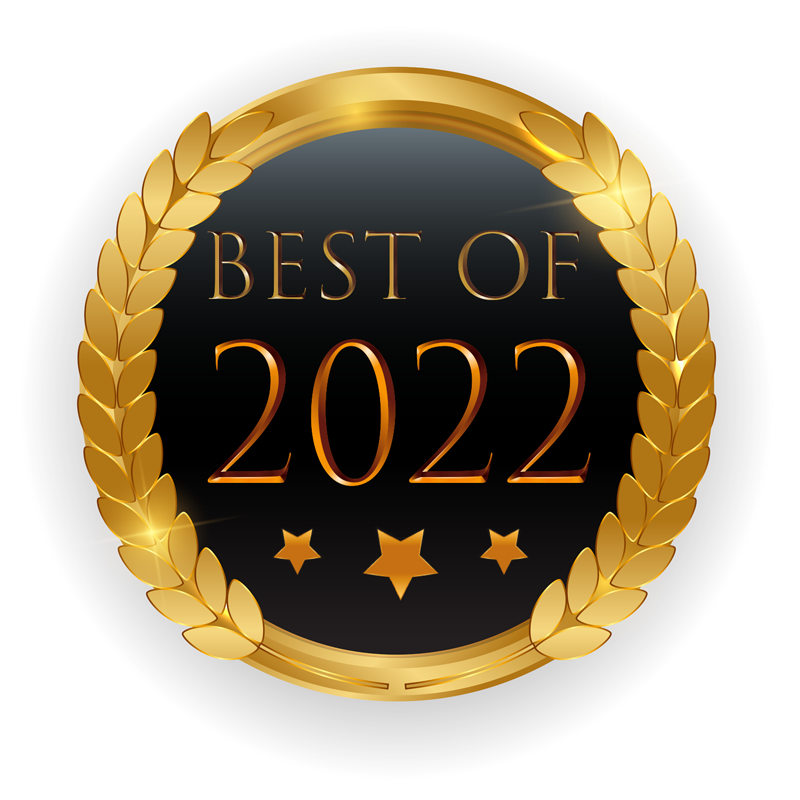
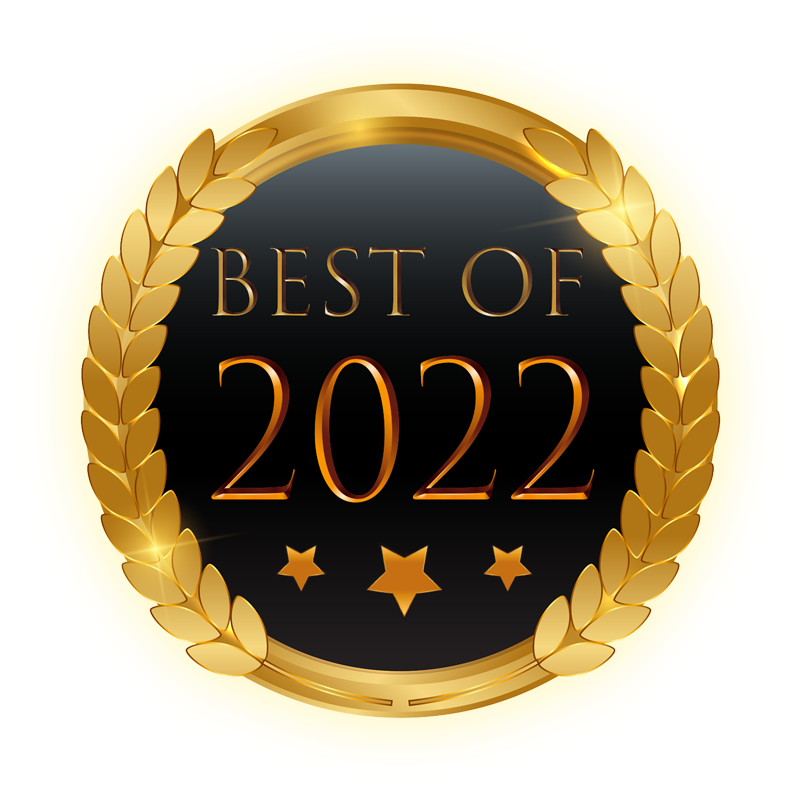
.

Changed region(s): [[0.0625, 0.0625, 0.9375, 0.9375], [0.4375, 0.6562, 0.5625, 0.7812], [0.3438, 0.6562, 0.4062, 0.75]]

diff --git a/data/local/dataPortfoliosPage.ts b/data/local/dataPortfoliosPage.ts
@@ -4,7 +4,6 @@ import { getDataProject2Scootify } from "./portfolio/getDataProject2Scootify";
 import { getDataProject3Gallery } from "./portfolio/getDataProject3Gallery";
 import { getDataRichContentHandbook } from "./portfolio/getDataRichContentHandbook";
 import { getDataScootifyObject } from "./portfolio/getDataScootifyObject";
-import { getDataUmbrella } from "./portfolio/getDataUmbrella";
 
 export function getPortfolio(linkId: string): Portfolio {
   return getAllPortfolios().filter((value) => value.linkId === linkId)[0];
@@ -12,16 +11,6 @@ export function getPortfolio(linkId: string): Portfolio {
 
 export function getAllPortfolios(): Portfolio[] {
   return [
-    // {
-    //   linkId: "Umbrella",
-    //    name: "Umbrella",
-    // backgroundColor: "#90d3d3",
-    //headerItemsColor:""
-    // isBig: true,
-    //   image: "/images/portfolio/umbrella/6.24.png",
-    //  awardImage: "/images/portfolio/umbrella/GDPJ_logo.png",
-    //   pageRichContent: getDataUmbrella(),
-    // },
     {
       linkId: "x-phone",
       name: "X|Phone",
@@ -33,7 +22,8 @@ export function getAllPortfolios(): Portfolio[] {
       image: "/images/portfolio/xphone/PortfolioItemTemplate1.jpg",
       pageRichContent: getDataProject1XPhone(),
       awardImage: "/images/portfolio/xphone/xphone-award.png",
-      awardAspectRatio: "244/376",
+      awardIsTransparent: true,
+      // awardAspectRatio: "244/376",
     },
     {
       linkId: "scootify",
@@ -44,7 +34,7 @@ export function getAllPortfolios(): Portfolio[] {
       image: "/images/portfolio/scootify/PortfolioItemTemplate2.jpg",
       pageRichContent: getDataProject2Scootify(),
       awardImage: "/images/portfolio/scootify/scootify-award.png",
-      awardAspectRatio: "520/300",
+      // awardAspectRatio: "520/300",
     },
     {
       linkId: "gallery",
@@ -74,42 +64,5 @@ export function getAllPortfolios(): Portfolio[] {
       image: "/images/portfolio/PortfolioItemScootifyObject.jpg",
       pageRichContent: getDataScootifyObject(),
     },
-    // {
-    //   linkId: "one-more",
-    //   name: "One More Faucet",
-    //   color: "#0066ff",
-    //   backgroundColor: "#011736",
-    //   isBackgroundDark: false,
-    //   image: "/images/portfolio/ab.png",
-    //   // image:
-    //   //   "https://th.bing.com/th/id/R.58cc46069f9c1bfec000c83e79721d31?rik=V6%2bwTqIO36Y40g&riu=http%3a%2f%2fwallup.net%2fwp-content%2fuploads%2f2016%2f05%2f24%2f374644-path-landscape-trees.jpg&ehk=4r8HqHCVUOTPA4f19szEL4vOhfNMFE4FPAQUSSsOg%2bA%3d&risl=&pid=ImgRaw&r=0",
-    //   award: "/images/portfolio/a_design_award.gif",
-    //   pageContent: getDataProject1XPhone(),
-    // },
-    // {
-    //   linkId: "umbrella-ca",
-    //   name: "ab",
-    //   color: "#ff00ff",
-    //   backgroundColor: "#3a053a",
-    //   isBackgroundDark: false,
-    //   image: "/images/portfolio/umbrella_2.png",
-    //   pageContent: getDataProject2Scootify(),
-    // },
-    // {
-    //   linkId: "umbrella",
-    //   name: "umbrella",
-    //   color: "#ff0000",
-    //   backgroundColor: "#3f0101",
-    //   isBackgroundDark: true,
-    //   image: "/images/portfolio/umbrella.png",
-    //   award: "/images/portfolio/GDPJ_logo.png",
-    //   pageContent: getDataProject3(),
-    // },
-    // {
-    //   name: "Desk Light",
-    //   color: "#00ff7c",
-    //   backgroundColor: "#00381c",
-    //   image: "desk_light.png",
-    // },
   ];
 }

diff --git a/data/local/portfolio/getDataRichContentHandbook.ts b/data/local/portfolio/getDataRichContentHandbook.ts
@@ -42,7 +42,6 @@ export function getDataRichContentHandbook(): RichChunkModel[] {
     return {
       smallImage: {
         path: `/images/portfolio/handbook/fireball_${index}.gif`,
-        // path: "https://th.bing.com/th/id/OIP.XInPSfSw_KKOcuwTSDbW1AHaF7?pid=ImgDet&rs=1",
         aspectRatio: "474/379",
         animation: {
           animateOnScroll: true,
@@ -50,7 +49,6 @@ export function getDataRichContentHandbook(): RichChunkModel[] {
           translateDistance: 30,
         },
       },
-      // freeSpace: "20px",
     } as RichChunkModel;
   });
 
@@ -86,8 +84,8 @@ export function getDataRichContentHandbook(): RichChunkModel[] {
               translateDistance: 6,
             },
             text: `
-This is a full blown test in demonstration of Rich Chunks abilities, alongside explanation. 
-You can find the data file of this and all the other pages
+This is a full blown test in demonstration of Rich Chunks abilities, alongside 
+explanations. You can find the data file of this and all the other portfolio pages
 in ${getInlineCode("/data/local/portfolio/", "green")}.
 `,
           },
@@ -307,7 +305,8 @@ and ${getInlineCode("minHeight", "#9d0006")}:
 \` \`  
 
 This image will always fill the entire width of the screen, 
-and expand or shrink depending on the size that is given min height, or how much space it's content need
+and expand or shrink depending on the size that is given min height, 
+or how much space it's content need
 
 \` \`  
 \` \`  
@@ -439,7 +438,8 @@ and fast typing.
 <i class="fa-solid fa-fire"></i>  To use fonts in you text, go 
 to [fontawesome.com/icons](https://fontawesome.com/icons)
 and once you find the icon you want, copy the **HTML** code 
-then paste it in your text, like in the example above. If some fonts don't work for you, it's because you need to be on a higher tier plan.
+then paste it in your text, like in the example above. If some 
+fonts don't work for you, it's because you need to be on a higher tier plan.
 
 To colorize your text links, you can create an \`a\` tag with a \`span\`
 inside ${getInlineCode(

diff --git a/data/local/portfolio/getDataProject3Gallery.ts b/data/local/portfolio/getDataProject3Gallery.ts
@@ -2,14 +2,14 @@ import { RichChunkModel } from "../../models/rich-chunk/RichChunkModel";
 
 export function getDataProject3Gallery(): RichChunkModel[] {
   const refs = [
-    "Katerina Kerdi", //
-    "Giuseppe Mondi", //
-    "Artiom Vallat", //
+    "Katerina Kerdi",
+    "Giuseppe Mondi",
+    "Artiom Vallat",
     "Allyson Beaucourt",
-    "Roma Ryabchenko", //
+    "Roma Ryabchenko",
     "Andre Furtado",
     "Simon Wilkes",
-    "Benjamin Davies", //
+    "Benjamin Davies",
     "Paul Summers",
     "Hojjat Aghaei",
     "Andre Furtado",

diff --git a/data/local/dataAboutMePage.ts b/data/local/dataAboutMePage.ts
@@ -3,10 +3,7 @@ import { AboutMeData } from "../models/local-data/aboutMeData";
 
 export function getAboutMeData(): AboutMeData {
   return {
-    image:
-      // "https://avatarairlines.com/wp-content/uploads/2020/05/Female-Placeholder.png",
-      "/images/my_image.jpg",
-    // "https://j.plenio.de/images/igallery/resized/701-800/jplenio_IMG_6405_3-748-4000-4000-100.jpg",
+    image: "/images/my_image.jpg",
     name: "Jane Smith",
     textTop: `
 Hi, and welcome to my website.

diff --git a/data/local/portfolio/getDataProject2Scootify.ts b/data/local/portfolio/getDataProject2Scootify.ts
@@ -55,7 +55,8 @@ Scootify is covered in Carbon-Ceramic and runs on Quantized-hydroxium
             text: `
 ## Structure:
 
-Protected by **Carbon-Ceramic**, Scootify is able to withstand 10,000k N/m<sup>3</sup> on direct impact, which makes it virtually indestructable.
+Protected by **Carbon-Ceramic**, Scootify is able to withstand 10,000k N/m<sup>3</sup> on 
+direct impact, which makes it virtually indestructable.
 
 ## Fuel:
 

diff --git a/components/PagePortfolio/PortfolioItem.tsx b/components/PagePortfolio/PortfolioItem.tsx
@@ -123,7 +123,9 @@ export default function PortfolioItem(p: Props) {
   ////
   ///////////////////////////////////////////////////////////////////////////////////
 
-  const awardBoxShadow = p.portfolio.isBackgroundDark
+  const awardBoxShadow = p.portfolio.awardIsTransparent
+    ? ""
+    : p.portfolio.isBackgroundDark
     ? makeAwardSmall
       ? ".5px 1px 5px 1px #ffffff66"
       : `4px 12px 85px 16px #ffffff44`

diff --git a/data/models/local-data/portfolio.ts b/data/models/local-data/portfolio.ts
@@ -6,7 +6,8 @@ export interface Portfolio {
   isBig?: boolean;
   image: string;
   awardImage?: string;
-  awardAspectRatio?: string;
+  awardIsTransparent?: boolean;
+  awardAspectRatio?: string; // not working yet
   isBackgroundDark?: boolean;
   pageRichContent: RichChunkModel[];
   headerItemsColor?: string;

diff --git a/ReadMe.md b/ReadMe.md
@@ -116,7 +116,8 @@ interface Item {
 
 ## Contact Me
 
-When viewing the website on a large screen, Contact Me will have it's own tab, and will be displayed in it. However on mobile the tab will hide and the content will be displayed in About Me tab.
+When viewing the website on a large screen, Contact Me will have its own tab, and will be displayed in it. However, on mobile the tab will hide and the content will be displayed in About Me tab.
+
 
 ###### Edit this in:  
 `/data/local/dataContactPage.ts`
@@ -149,6 +150,7 @@ interface Portfolio {
   isBig?: boolean;
   image: string;
   awardImage?: string;
+  awardIsTransparent?: boolean;
   isBackgroundDark?: boolean;
   pageRichContent: RichChunkModel[];
   headerItemsColor?: string;
@@ -169,6 +171,9 @@ things may look funky otherwise.
 To fix this, you'll need to open 
 `/components/PagePortfolio/PortfolioItem.tsx` and go to line 87. 
 There's more information there.
+ 
+`awardIsTransparent`: If your award image has transparent background,
+set this to true. Otherwise, a shadow will be cast behind the award.
 
 `isBackgroundDark` : `awardImage` uses this in  `http.../portfolio` page
 to decide if the shadow behind it should be white or black.
